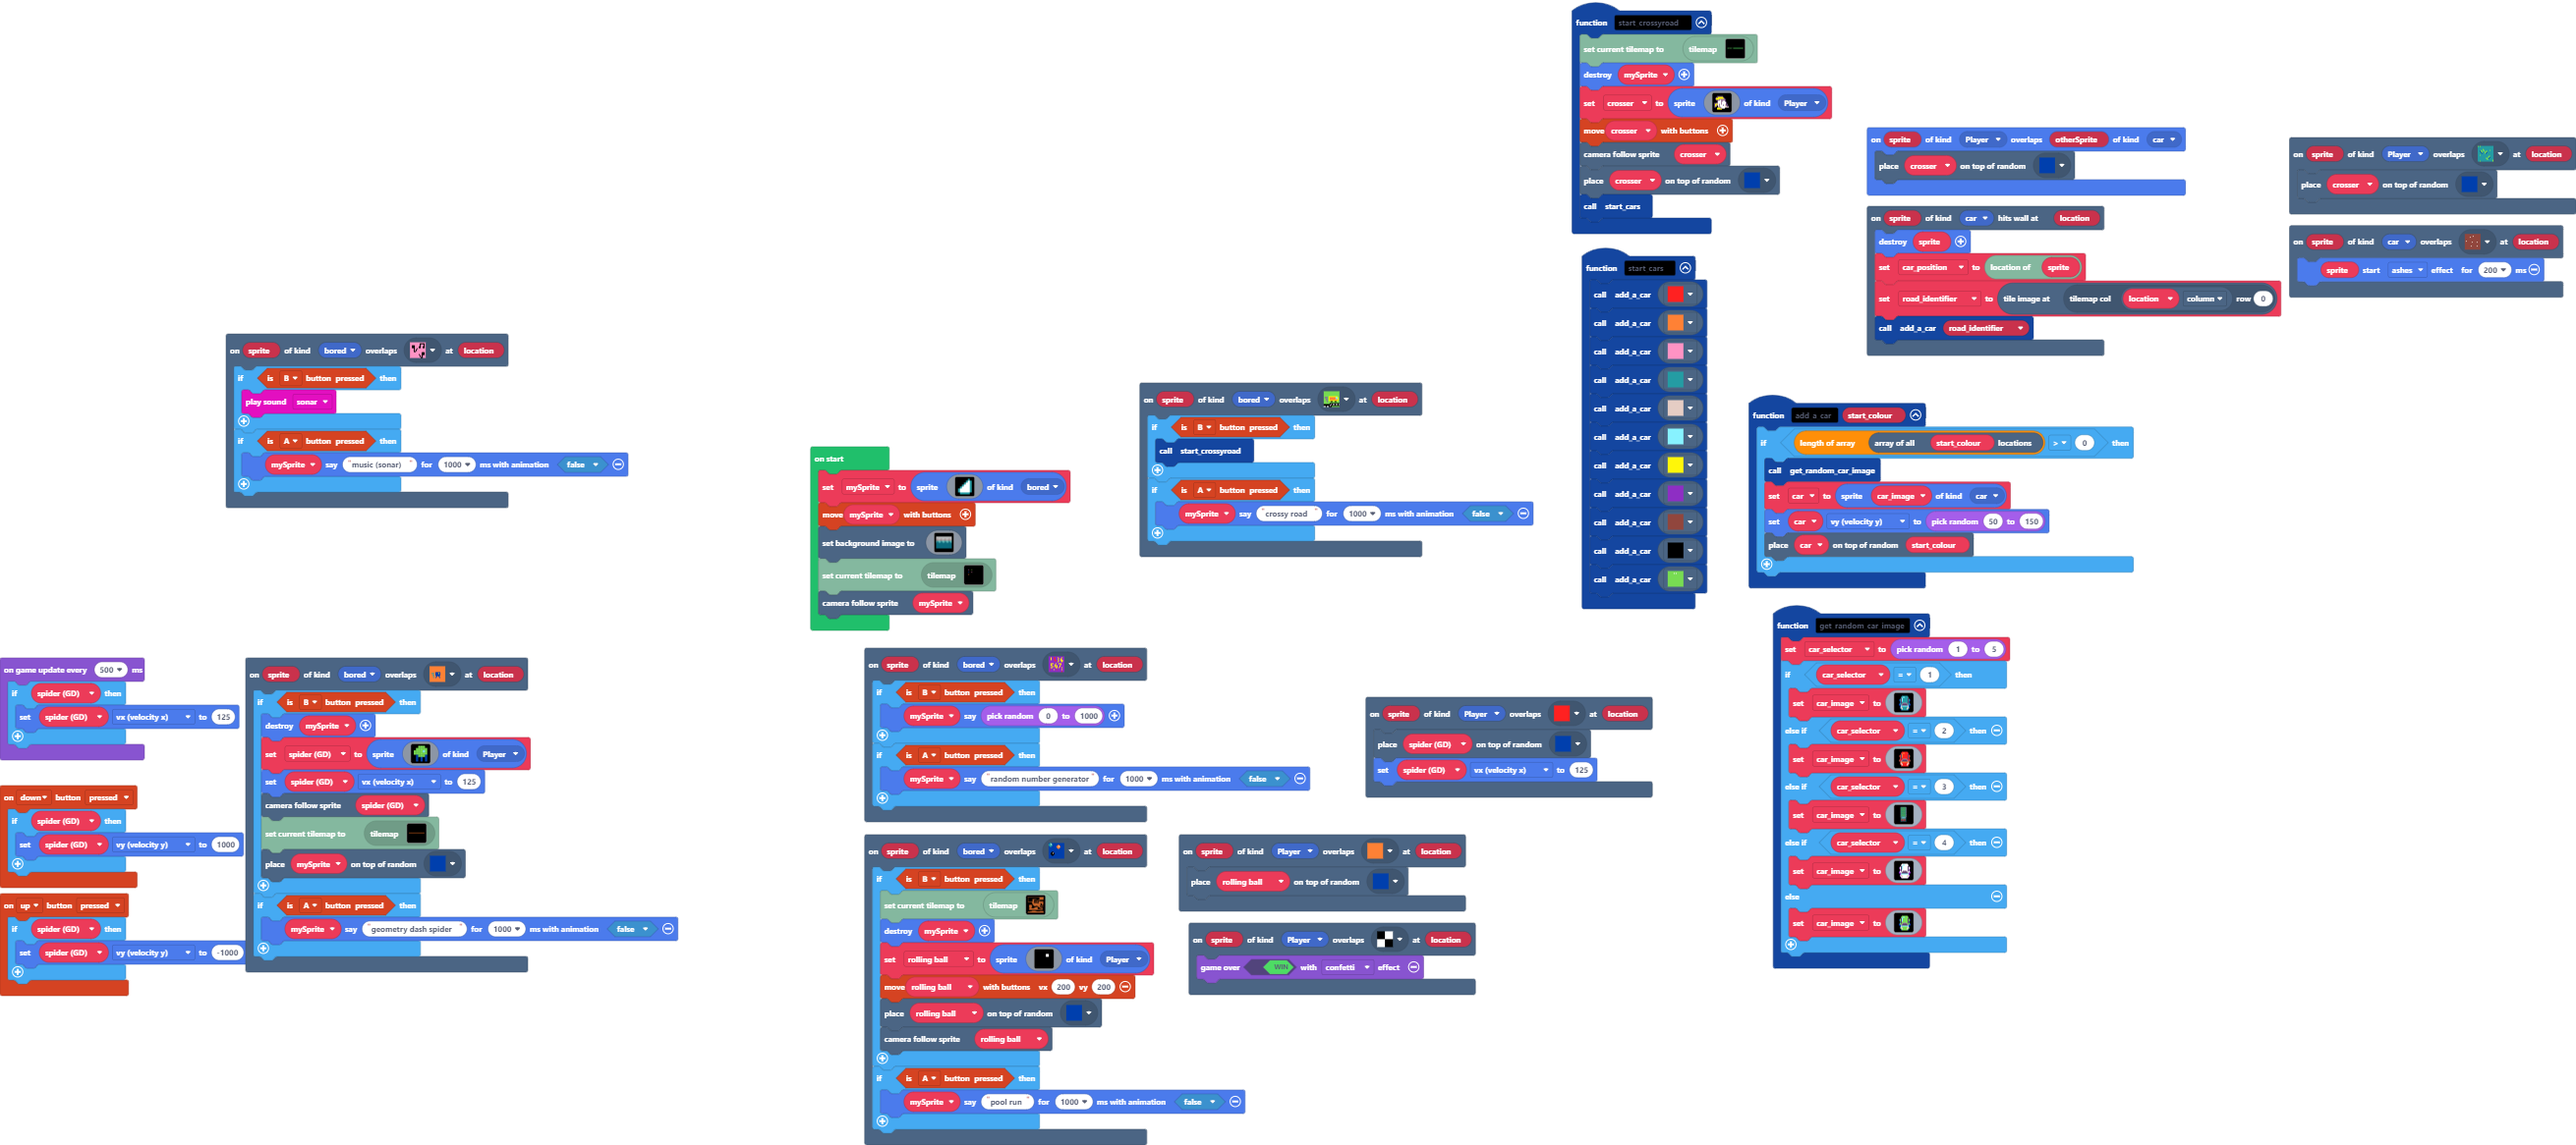
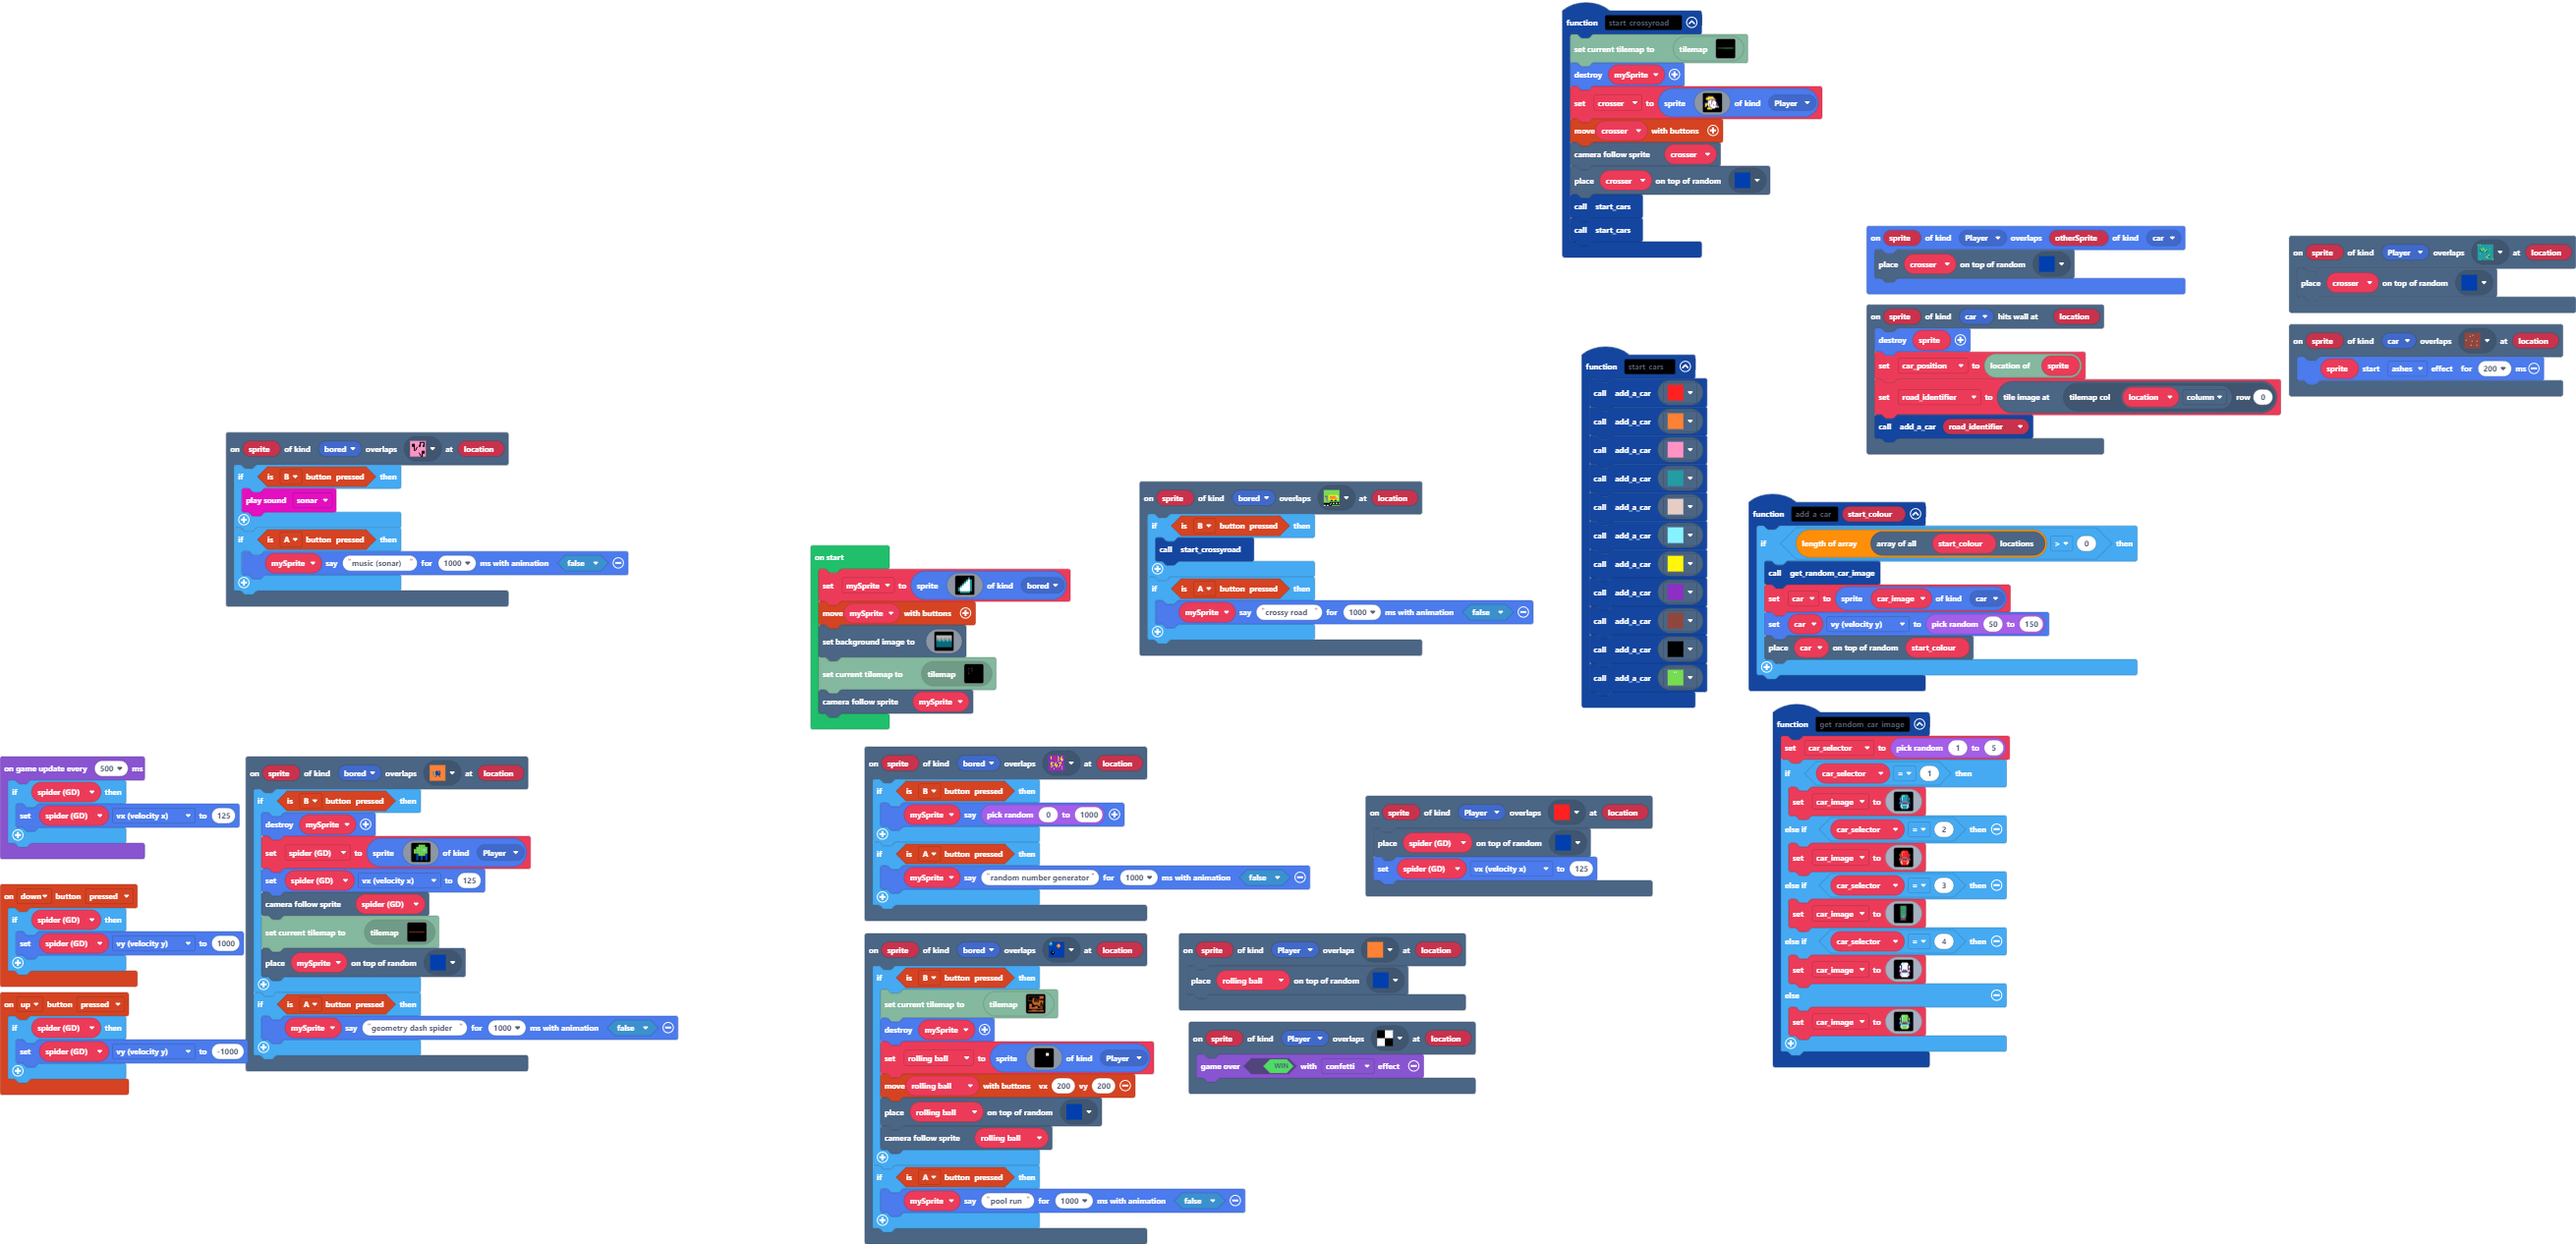
crossy-road mechanics finished

Changed region(s): [[0.309, 0.0, 1.0, 0.988], [0.0, 0.5557, 0.2781, 0.8954], [0.0618, 0.2779, 0.2472, 0.494]]

diff --git a/tilemap.g.ts b/tilemap.g.ts
@@ -327,7 +327,7 @@ namespace myTiles {
 . . . . . . . . . . . . . . . . 
 `, [myTiles.transparency16], TileScale.Sixteen);
             case "level12":
[2 lines of base64/hex data omitted]
 ...............................................................................................................................................................................................................................................................
 ...............................................................................................................................................................................................................................................................
 ...............................................................................................................................................................................................................................................................
@@ -336,11 +336,11 @@ namespace myTiles {
 ...............2.....................................2.2.2.2.2.................................................................................................................................................................................................
 ...........................2.........................2.2.22222.2...............................................................................................................................................................................................
 .........................2.................................222.2...............................................................................................................................................................................................
-.......................2.............................2.....222.22..............................................................................................................................................................................................
-...................2.....2.............................2.....2.2...............................................................................................................................................................................................
+.......................2...................................222.22..............................................................................................................................................................................................
+...................2.....2...........................2.2.....2.2...............................................................................................................................................................................................
 .....................................................2.2.....2.2...............................................................................................................................................................................................
 ................2......2...............................2.......................................................................................................................................................................................................
-............................................................2222...............................................................................................................................................................................................
+............................................................22.2...............................................................................................................................................................................................
 ...............................................................................................................................................................................................................................................................
 ...............................................................................................................................................................................................................................................................
 222222222222222222222222222222222222222222222222222222222222222222222222222222222222222222222222222222222222222222222222222222222222222222222222222222222222222222222222222222222222222222222222222222222222222222222222222222222222222222222222222222222222222

diff --git a/main.ts b/main.ts
@@ -281,6 +281,7 @@ function start_crossyroad () {
     scene.cameraFollowSprite(crosser)
     tiles.placeOnRandomTile(crosser, assets.tile`myTile3`)
     start_cars()
+    start_cars()
 }
 let road_identifier: Image = null
 let car_position: tiles.Location = null
